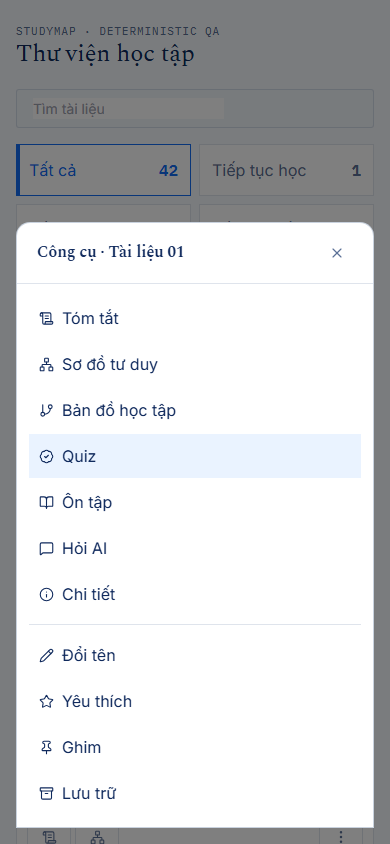
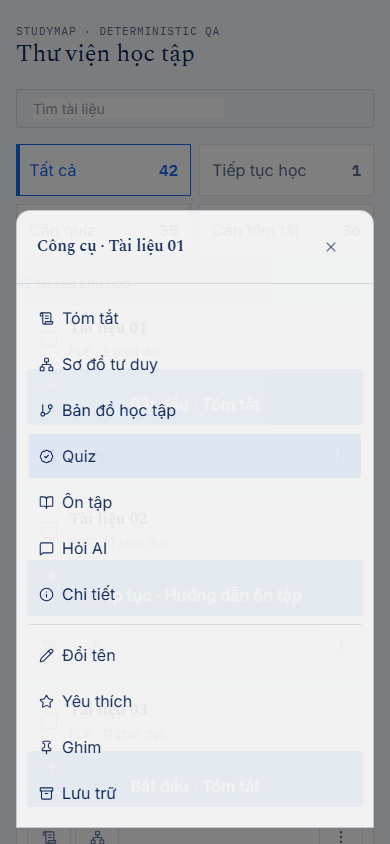
test(library): close Round 6 QA gaps

diff --git a/FE/e2e-fixture/round6-library-action-matrix.spec.js b/FE/e2e-fixture/round6-library-action-matrix.spec.js
@@ -5,6 +5,9 @@ import path from "node:path";
 const evidenceDir = path.resolve(process.cwd(), "../docs/ui-ux-v4-design/round6-qa-evidence");
 const summaryIds = Array.from({ length: 42 }, (_, index) => `doc-${index + 1}`)
   .filter((id) => !["doc-1", "doc-8", "doc-15", "doc-22", "doc-29", "doc-36"].includes(id));
+const viewports = [
+  [1440, 900], [1024, 768], [820, 1180], [800, 900], [768, 1024], [390, 844], [320, 568],
+];
 
 test.beforeAll(async () => mkdir(evidenceDir, { recursive: true }));
 
@@ -57,4 +60,90 @@ test("mobile uses the portalled complete-tools sheet with all seven learning sur
   await expect(dialog.locator('[data-surface="studymap"]')).toBeVisible();
   await expect(dialog.locator("[data-management-action]")).toHaveCount(4);
   await page.screenshot({ path: path.join(evidenceDir, "library-matrix-mobile-390-tools.png"), fullPage: false });
+});
+
+for (const [width, height] of viewports) {
+  for (const theme of ["light", "dark"]) {
+    test(`${width}x${height} ${theme} contains every row and control`, async ({ page }) => {
+      await page.setViewportSize({ width, height });
+      await page.goto(`/round6-library-qa.html?theme=${theme}`);
+      await expect(page.locator("[data-document-row]")).toHaveCount(42);
+      const geometry = await page.evaluate(() => {
+        const rows = [...document.querySelectorAll("[data-document-row]")];
+        const clippedRows = rows.filter((row) => row.scrollWidth > row.clientWidth + 1).map((row) => row.dataset.documentId);
+        const clippedControls = [...document.querySelectorAll("[data-document-row] button, [data-document-row] input")]
+          .filter((control) => {
+            const rect = control.getBoundingClientRect();
+            const rowRect = control.closest("[data-document-row]").getBoundingClientRect();
+            return rect.left < rowRect.left - 1 || rect.right > rowRect.right + 1;
+          }).length;
+        const smallTargets = innerWidth <= 767
+          ? [...document.querySelectorAll("[data-document-row] button, [data-document-row] label")]
+            .filter((control) => {
+              const rect = control.getBoundingClientRect();
+              return rect.width < 44 || rect.height < 44;
+            }).length
+          : 0;
+        return {
+          globalOverflow: document.documentElement.scrollWidth - document.documentElement.clientWidth,
+          clippedRows,
+          clippedControls,
+          smallTargets,
+        };
+      });
+      expect(geometry).toEqual({ globalOverflow: 0, clippedRows: [], clippedControls: 0, smallTargets: 0 });
+      await page.screenshot({ path: path.join(evidenceDir, `library-${width}x${height}-${theme}.png`), fullPage: false });
+    });
+  }
+}
+
+test("captures four task views, empty state, desktop menu, and bulk scope change", async ({ page }) => {
+  await page.setViewportSize({ width: 1440, height: 900 });
+  await page.goto("/round6-library-qa.html");
+  for (const [view, count] of [["continue", 1], ["needs_summary", 36], ["needs_quiz", 35]]) {
+    await page.locator(`[data-task-view="${view}"]`).click();
+    await expect(page.locator("[data-document-row]")).toHaveCount(count);
+    await page.screenshot({ path: path.join(evidenceDir, `library-view-${view}.png`), fullPage: false });
+  }
+  await page.goto("/round6-library-qa.html?query=khong-co-ket-qua");
+  await expect(page.getByText("Không có tài liệu phù hợp")).toBeVisible();
+  await page.screenshot({ path: path.join(evidenceDir, "library-composed-empty.png"), fullPage: false });
+
+  await page.goto("/round6-library-qa.html");
+  await page.locator("[data-document-row]").first().locator("[data-tools-trigger]").click();
+  await expect(page.locator(".document-tools--desktop")).toBeVisible();
+  await page.screenshot({ path: path.join(evidenceDir, "library-desktop-more-menu.png"), fullPage: false });
+  await page.keyboard.press("Escape");
+
+  const rows = page.locator("[data-document-row]");
+  await rows.nth(0).locator('input[type="checkbox"]').check();
+  await rows.nth(1).locator('input[type="checkbox"]').check();
+  await page.screenshot({ path: path.join(evidenceDir, "library-bulk-before-task-change.png"), fullPage: false });
+  await page.locator('[data-task-view="needs_summary"]').click();
+  await expect(page.locator('[data-document-id="doc-1"]')).toHaveCount(0);
+  await expect(page.locator('[data-document-id="doc-2"] input[type="checkbox"]')).toBeChecked();
+  await page.screenshot({ path: path.join(evidenceDir, "library-bulk-after-task-change.png"), fullPage: false });
+});
+
+test("320px tools sheet is contained, scrollable, and uses 44px targets", async ({ page }) => {
+  await page.setViewportSize({ width: 320, height: 568 });
+  await page.goto("/round6-library-qa.html?theme=dark");
+  await page.locator("[data-document-row]").first().locator("[data-tools-trigger]").click();
+  const dialog = page.getByRole("dialog");
+  await expect(dialog).toBeVisible();
+  const metrics = await dialog.evaluate((node) => {
+    const rect = node.getBoundingClientRect();
+    const targets = [...node.querySelectorAll("button")].map((button) => button.getBoundingClientRect());
+    const scrollRegion = node.querySelector(".overflow-auto");
+    return {
+      left: rect.left, right: rect.right, width: innerWidth,
+      minTarget: Math.min(...targets.map((target) => Math.min(target.width, target.height))),
+      scrollable: scrollRegion.scrollHeight > scrollRegion.clientHeight,
+    };
+  });
+  expect(metrics.left).toBeGreaterThanOrEqual(0);
+  expect(metrics.right).toBeLessThanOrEqual(metrics.width);
+  expect(metrics.minTarget).toBeGreaterThanOrEqual(44);
+  expect(metrics.scrollable).toBe(true);
+  await page.screenshot({ path: path.join(evidenceDir, "library-mobile-320-tools-dark.png"), fullPage: false });
 });

diff --git a/FE/src/round6LibraryQa.jsx b/FE/src/round6LibraryQa.jsx
@@ -1,10 +1,15 @@
 import { createRoot } from "react-dom/client";
-import { useMemo, useState } from "react";
+import { useEffect, useMemo, useState } from "react";
 import "./index.css";
 import "./components/study/libraryActionMatrix.css";
 import LibraryTaskViews from "./components/study/LibraryTaskViews";
 import StudyDocumentActionRow from "./components/study/StudyDocumentActionRow";
+import { EmptyState } from "./components/study/StudyShell";
 import { TASK_VIEW, projectLibrary } from "./utils/libraryActionMatrix";
+
+const params = new URLSearchParams(window.location.search);
+const initialView = Object.values(TASK_VIEW).includes(params.get("view")) ? params.get("view") : TASK_VIEW.ALL;
+document.documentElement.classList.toggle("dark", params.get("theme") === "dark");
 
 const fixture = Array.from({ length: 42 }, (_, offset) => {
   const index = offset + 1;
@@ -27,9 +32,14 @@ const fixture = Array.from({ length: 42 }, (_, offset) => {
 });
 
 export function Round6LibraryQa() {
-  const [view, setView] = useState(TASK_VIEW.ALL);
-  const [query, setQuery] = useState("");
+  const [view, setView] = useState(initialView);
+  const [query, setQuery] = useState(params.get("query") || "");
+  const [selected, setSelected] = useState(() => new Set());
   const projection = useMemo(() => projectLibrary(fixture, { view, query, sort: "az" }), [view, query]);
+  useEffect(() => {
+    const visibleIds = new Set(projection.rows.map((doc) => doc.document_id));
+    setSelected((current) => new Set([...current].filter((id) => visibleIds.has(id))));
+  }, [projection.rows]);
   return (
     <main data-testid="round6-library-qa" className="mx-auto max-w-[1180px] px-4 py-6">
       <header className="mb-5">
@@ -41,13 +51,24 @@ export function Round6LibraryQa() {
       </div>
       <LibraryTaskViews value={view} counts={projection.counts} onChange={setView} />
       <p data-testid="result-count" className="mb-3 text-small text-text-muted">{projection.rows.length} tài liệu phù hợp</p>
-      <section className="study-document-matrix" aria-label="Danh sách tài liệu QA">
-        {projection.rows.map((doc, index) => <StudyDocumentActionRow key={doc.document_id}
-          doc={doc} view={view} primaryTabIndex={index === 0 ? 0 : -1}
-          onOpen={(item, surface) => { window.__round6LastOpen = [item.document_id, surface]; }}
-          onDetails={() => {}} onRename={() => {}} onPatch={() => {}}
-          selected={false} onSelect={() => {}} />)}
-      </section>
+      {projection.rows.length === 0 ? (
+        <EmptyState icon="Search" title="Không có tài liệu phù hợp"
+          hint="Hãy đổi mục tiêu học tập, bộ sưu tập, bộ lọc hoặc từ khoá tìm kiếm."
+          action={<button type="button" className="pill-action mt-1" onClick={() => { setView(TASK_VIEW.ALL); setQuery(""); }}>Xem tất cả tài liệu</button>} />
+      ) : (
+        <section className="study-document-matrix" aria-label="Danh sách tài liệu QA">
+          {projection.rows.map((doc, index) => <StudyDocumentActionRow key={doc.document_id}
+            doc={doc} view={view} primaryTabIndex={index === 0 ? 0 : -1}
+            onOpen={(item, surface) => { window.__round6LastOpen = [item.document_id, surface]; }}
+            onDetails={() => {}} onRename={() => {}} onPatch={() => {}}
+            selected={selected.has(doc.document_id)}
+            onSelect={(id) => setSelected((current) => {
+              const next = new Set(current);
+              if (next.has(id)) next.delete(id); else next.add(id);
+              return next;
+            })} />)}
+        </section>
+      )}
     </main>
   );
 }

diff --git a/FE/src/components/study/libraryActionMatrix.css b/FE/src/components/study/libraryActionMatrix.css
@@ -24,5 +24,6 @@
 .document-tools__group button:hover,.document-tools__group button:focus-visible { background:var(--bg-hover); }
 .document-tools--sheet { padding:12px; }
 .document-tools--sheet .document-tools__group button { min-height:44px; }
+.document-tools-sheet .icon-btn { width:44px; height:44px; }
 @media (max-width:1023px) { .study-document-row { grid-template-columns:34px minmax(170px,1fr) minmax(170px,auto) 88px 82px; } .study-document-row__progress { display:none; } }
 @media (max-width:767px) { .library-task-views { grid-template-columns:repeat(2,minmax(0,1fr)); } .study-document-row { grid-template-columns:34px minmax(0,1fr) 44px; gap:8px; padding:10px; } .study-document-row__identity { grid-column:2; } .study-document-row__primary { grid-column:1/-1; grid-row:2; width:100%; } .study-document-row__quick { grid-column:1/3; grid-row:3; } .study-document-row__tools { grid-column:3; grid-row:3; } .study-document-row__tools>button span { display:none; } .document-tools-sheet { align-self:flex-end; border-radius:14px 14px 0 0 !important; max-height:88vh !important; } }

diff --git a/FE/src/pages/study/DocumentList.jsx b/FE/src/pages/study/DocumentList.jsx
@@ -123,6 +123,7 @@ export default function DocumentList() {
   const matrixPrimaryRefs = useRef(new Map());
   const matrixFallbackRef = useRef(null);
   const matrixListRef = useRef(null);
+  const matrixScrollRestoredRef = useRef(false);
 
   const [documents, setDocuments] = useState([]);
   const [overview, setOverview] = useState(null);
@@ -318,7 +319,9 @@ export default function DocumentList() {
   }, [matrixStorageKey, taskView, truyVan, cheDoSap, chonBoSuuTap, chonThe, boLoc, hienLuuTru]);
 
   useEffect(() => {
-    if (!LIBRARY_ACTION_MATRIX || loading || !matrixInitial.scrollY || !matrixListRef.current) return undefined;
+    if (!LIBRARY_ACTION_MATRIX || loading || matrixScrollRestoredRef.current
+        || !matrixInitial.scrollY || !matrixListRef.current) return undefined;
+    matrixScrollRestoredRef.current = true;
     const frame = requestAnimationFrame(() => window.scrollTo({ top: matrixInitial.scrollY }));
     return () => cancelAnimationFrame(frame);
   }, [loading, matrixInitial.scrollY, matrixProjection.rows.length]);

diff --git a/FE/src/components/study/DocumentToolsSheet.jsx b/FE/src/components/study/DocumentToolsSheet.jsx
@@ -84,6 +84,18 @@ export function DesktopDocumentTools({ open, doc, onChoose, onManage, onClose, t
 export default function DocumentToolsSheet({ open, doc, onChoose, onManage, onClose, triggerRef, fallbackFocusRef }) {
   useEffect(() => {
     if (!open) return undefined;
+    const appRoot = document.getElementById("root");
+    const rootWasInert = appRoot?.hasAttribute("inert");
+    const previousOverflow = document.body.style.overflow;
+    if (!rootWasInert) appRoot?.setAttribute("inert", "");
+    document.body.style.overflow = "hidden";
+    return () => {
+      if (!rootWasInert) appRoot?.removeAttribute("inert");
+      document.body.style.overflow = previousOverflow;
+    };
+  }, [open]);
+  useEffect(() => {
+    if (!open) return undefined;
     const trigger = triggerRef?.current;
     const fallback = fallbackFocusRef?.current;
     return () => queueMicrotask(() => {

diff --git a/FE/src/components/study/LibraryActionMatrix.test.jsx b/FE/src/components/study/LibraryActionMatrix.test.jsx
@@ -20,6 +20,7 @@ afterEach(() => {
 
 function render(element) {
   container = document.createElement("div");
+  container.id = "root";
   document.body.appendChild(container);
   root = createRoot(container);
   act(() => root.render(element));
@@ -109,8 +110,12 @@ describe("StudyDocumentActionRow", () => {
     trigger.focus();
     act(() => trigger.click());
     expect(document.body.querySelector('[role="dialog"]')).not.toBeNull();
+    expect(container.hasAttribute("inert")).toBe(true);
+    expect(document.body.style.overflow).toBe("hidden");
     act(() => window.dispatchEvent(new KeyboardEvent("keydown", { key: "Escape" })));
     expect(document.body.querySelector('[role="dialog"]')).toBeNull();
+    expect(container.hasAttribute("inert")).toBe(false);
+    expect(document.body.style.overflow).toBe("");
     expect(document.activeElement).toBe(trigger);
   });
 

diff --git a/FE/src/pages/study/DocumentList.round6.behavior.test.jsx b/FE/src/pages/study/DocumentList.round6.behavior.test.jsx
@@ -154,6 +154,8 @@ describe("DocumentList Round 6 mounted integration", () => {
     await renderDocumentList();
     expect([...host.querySelectorAll("[data-document-row]")].map((node) => node.dataset.documentId)).toEqual(["doc-2"]);
     expect(window.scrollTo).toHaveBeenCalledWith({ top: 240 });
+    act(() => host.querySelector('[data-task-view="needs_summary"]').click());
+    expect(window.scrollTo).toHaveBeenCalledTimes(1);
   });
 
   it("does not inherit account A context when account B mounts in the same browser", async () => {

diff --git a/docs/ui-ux-v4-design/round6-qa-evidence/README.md b/docs/ui-ux-v4-design/round6-qa-evidence/README.md
@@ -1,9 +1,61 @@
 # Round 6 Library Action Matrix QA evidence
 
-Generated by `FE/e2e-fixture/round6-library-action-matrix.spec.js` against the real React presentation components and pure projection model.
+Generated on 2026-10-28 by
+`FE/e2e-fixture/round6-library-action-matrix.spec.js` in Chromium through
+Playwright. The deterministic, backend-free harness mounts the real Round 6
+React presentation components and the production pure projection model. Mounted
+`DocumentList.round6.behavior.test.jsx` separately verifies production fetch,
+dispatcher, persistence, deletion, and exact bulk request bodies.
 
-- `library-matrix-desktop-1440.png`: 42-document canonical matrix at 1440×1000.
-- `library-matrix-mobile-390-tools.png`: 390×844 portalled tools sheet, including all seven learning surfaces.
-- `matrix-density-metrics.json`: browser-measured row count, UUID uniqueness, interactive-control count, and first-row height.
+## Fixture and measured results
 
-The harness is deterministic and backend-free; mounted `DocumentList.round6.behavior.test.jsx` separately verifies production API call payloads and integration state.
+- Provenance: the approved Alternative B 42-document fixture encoded in
+  `FE/src/round6LibraryQa.jsx`.
+- All: 42 unique UUID rows; Continue: 1; Needs Summary: 36; Needs Quiz: 35.
+- `doc-1` is excluded from both missing queues; `doc-2` is included in both.
+- Desktop density: 215 visible interactive controls, 210 inside rows, five per
+  row, first-row height 82px. See `matrix-density-metrics.json`.
+- Browser result: 18/18 Playwright cases passed after correcting the sheet close
+  target from 32px to 44px. Every listed viewport/theme measured zero document
+  overflow, zero row overflow, zero clipped controls, and mobile targets >=44px.
+- Runtime: local Chromium supplied by Playwright; Vite fixture server; no backend
+  and no external network requests.
+
+## Evidence index
+
+| Surface | Viewport/theme | Evidence | Result |
+|---|---|---|---|
+| All | 1440x900 light/dark | `library-1440x900-light.png`, `library-1440x900-dark.png` | PASS |
+| All | 1024x768 light/dark | `library-1024x768-light.png`, `library-1024x768-dark.png` | PASS |
+| All | 820x1180 light/dark | `library-820x1180-light.png`, `library-820x1180-dark.png` | PASS |
+| All | 800x900 light/dark | `library-800x900-light.png`, `library-800x900-dark.png` | PASS |
+| All | 768x1024 light/dark | `library-768x1024-light.png`, `library-768x1024-dark.png` | PASS |
+| All | 390x844 light/dark | `library-390x844-light.png`, `library-390x844-dark.png` | PASS |
+| All | 320x568 light/dark | `library-320x568-light.png`, `library-320x568-dark.png` | PASS |
+| Continue | 1440x900 light | `library-view-continue.png` | PASS |
+| Needs Summary | 1440x900 light | `library-view-needs_summary.png` | PASS |
+| Needs Quiz | 1440x900 light | `library-view-needs_quiz.png` | PASS |
+| Composed-filter empty | 1440x900 light | `library-composed-empty.png` | PASS |
+| Desktop More | 1440x900 light | `library-desktop-more-menu.png` | PASS |
+| Mobile tools sheet | 390x844 light | `library-matrix-mobile-390-tools.png` | PASS |
+| Mobile stress sheet | 320x568 dark | `library-mobile-320-tools-dark.png` | PASS |
+| Bulk scope before/after task change | 1440x900 light | `library-bulk-before-task-change.png`, `library-bulk-after-task-change.png` | PASS |
+
+## Non-screenshot interaction evidence
+
+- Feature flag OFF/ON, single `/api/library` fetch, account-scoped Back state,
+  one-shot scroll restoration, exact dispatcher calls, one `markOpened`, same-
+  cycle hidden-ID exclusion, collection delete cancel/failure/UUID behavior, and
+  fallback focus are asserted by the mounted integration suite.
+- The shared destructive-confirmation visual contract is covered by its Round 7
+  component suite; Round 6 verifies the Library caller and failure propagation.
+- Destination identity and UUID membership/counts are asserted in pure and
+  mounted tests rather than inferred from screenshots.
+
+## Known limitations
+
+- Chromium viewport emulation is not a claim of real-device keyboard or screen-
+  reader testing.
+- The deterministic evidence harness is intentionally backend-free; production
+  API request semantics are covered in jsdom integration tests.
+- No rollout percentage or production exposure is enabled by this evidence.

diff --git a/.playbook/known-issues.md b/.playbook/known-issues.md
@@ -1,5 +1,49 @@
 # Known Issues
 
+## Library mobile tools sheet trapped focus but did not inert its page root (fixed 2026-10-28)
+
+**Symptom:** keyboard Tab stayed inside the portalled sheet, but background
+controls remained programmatically interactive and the page could still scroll
+behind the scrim.
+
+**Root cause:** the shared modal supplied a portal, scrim, Escape handling, and
+focus trap, while the Library adapter assumed those behaviors also isolated the
+application root. It never applied `inert` or a scroll lock.
+
+**Fix and prevention:** the Library sheet now marks `#root` inert and locks body
+scroll only for its open lifetime, restoring both previous states on cleanup.
+The component regression asserts isolation and restoration together with focus
+return, without changing the shared `Modal` contract.
+
+## Library mobile tools-sheet close control was only 32px (fixed 2026-10-28)
+
+**Symptom:** Chromium geometry QA at 320×568 measured one tools-sheet control
+below the 44×44px touch-target floor even though every learning and management
+action met it.
+
+**Root cause:** the sheet reused `Modal`'s shared 32×32px close button. The
+Round 6 styles enlarged only buttons inside the tool groups and omitted the
+header close control.
+
+**Fix and prevention:** a sheet-scoped rule enlarges the inherited close button
+to 44×44px without changing the shared `Modal` contract. The 320px browser gate
+measures every button in the portalled dialog and fails on the smallest target.
+
+## Library scroll restoration replayed after changing a task view (fixed 2026-10-28)
+
+**Symptom:** after Browser Back restored the saved Library scroll offset, changing
+the active task view could scroll the page back to that old offset instead of
+leaving the user's current position intact.
+
+**Root cause:** the restoration effect depended on the projected row count, so a
+task-view membership change scheduled the same saved `scrollY` again. The saved
+value was correct, but the effect had no one-shot lifecycle guard.
+
+**Fix and prevention:** a mount-scoped ref now consumes scroll restoration only
+once, after rows first render. The mounted integration regression restores a
+saved offset, changes task view, and asserts that `window.scrollTo` was called
+exactly once.
+
 ## Toolbar compact-at-rail-edge fix hid the map-selector entirely, breaking a pre-existing test (fixed 2026-10-25)
 
 **Symptom:** CI's `E2E Critical Flows (Playwright)` required check failed on

diff --git a/.playbook/lessons-learned.md b/.playbook/lessons-learned.md
@@ -1,5 +1,29 @@
 # Lessons Learned
 
+## A focus trap does not make the background inert (2026-10-28)
+
+Portal placement, a scrim, `aria-modal`, and cycling Tab focus each cover a
+different part of modal behavior. None prevents background scripts, assistive
+technology, or scrolling from reaching the application tree. A bottom-sheet
+adapter must explicitly isolate the app root and restore its prior state when
+the sheet closes, including Escape and unmount paths.
+
+## Touch-target audits must include inherited modal chrome (2026-10-28)
+
+Measuring only a feature's own action list can miss the shared close button,
+back button, or other frame control that remains part of the same mobile task.
+For portalled sheets, measure every interactive descendant of the dialog at the
+smallest supported viewport, including controls owned by the shared shell.
+
+## Restored navigation state is a consumable event, not a standing effect input (2026-10-28)
+
+A persisted scroll offset describes one return-navigation handoff. If an effect
+keeps treating that value as live configuration, unrelated projection changes
+can replay the restoration and move the user after they have resumed working.
+Guard the handoff with mount-scoped consumption state, and regress both halves:
+the first eligible render restores once, while subsequent search/filter/task
+changes do not restore again.
+
 ## A "compact at narrow width" rule for one toolbar must enumerate every interactive control it hides, not just the ones the current fix cares about (2026-10-25)
 
 `:not(.a):not(.b):not(.c) { display: none }` silently hides everything else in
